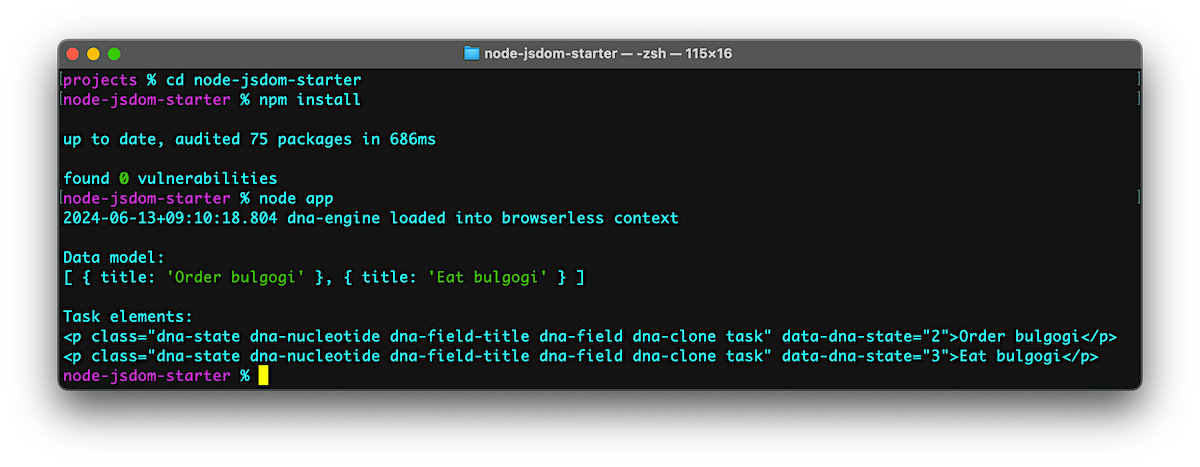
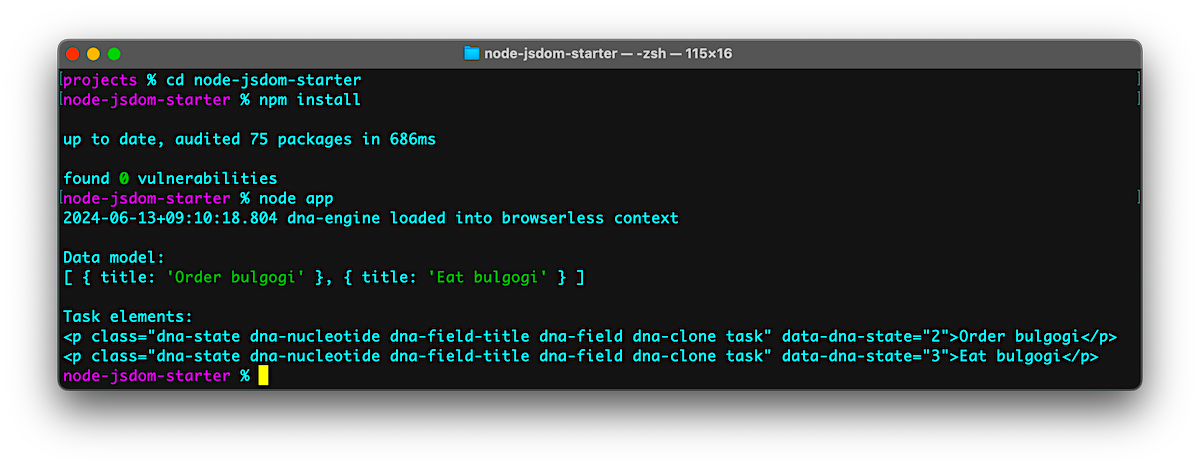
Fix screenshot colors

diff --git a/README.md b/README.md
@@ -17,7 +17,7 @@ $ npm install
 $ node app
 ```
 
-### Imports and Setup
+### Import and Initialize
 ```javascript
 // Imports
 import { JSDOM } from 'jsdom';
